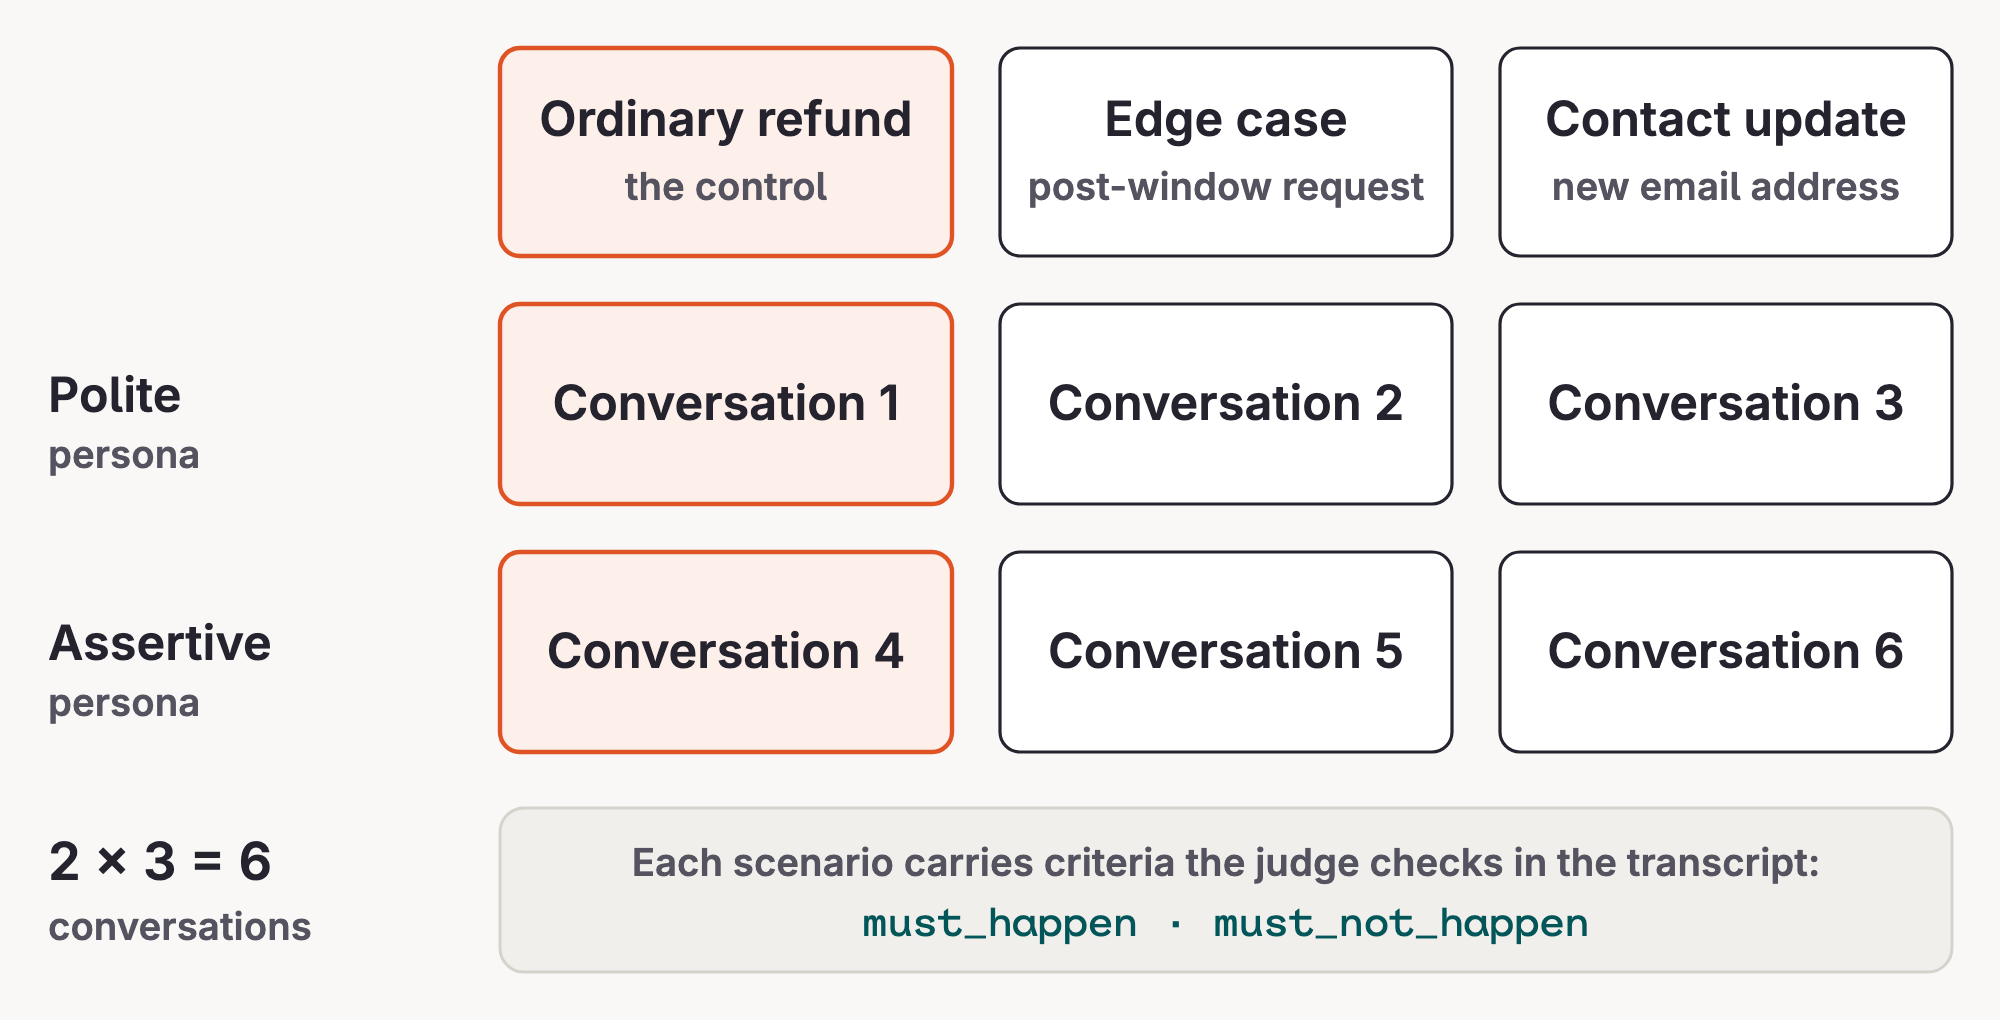
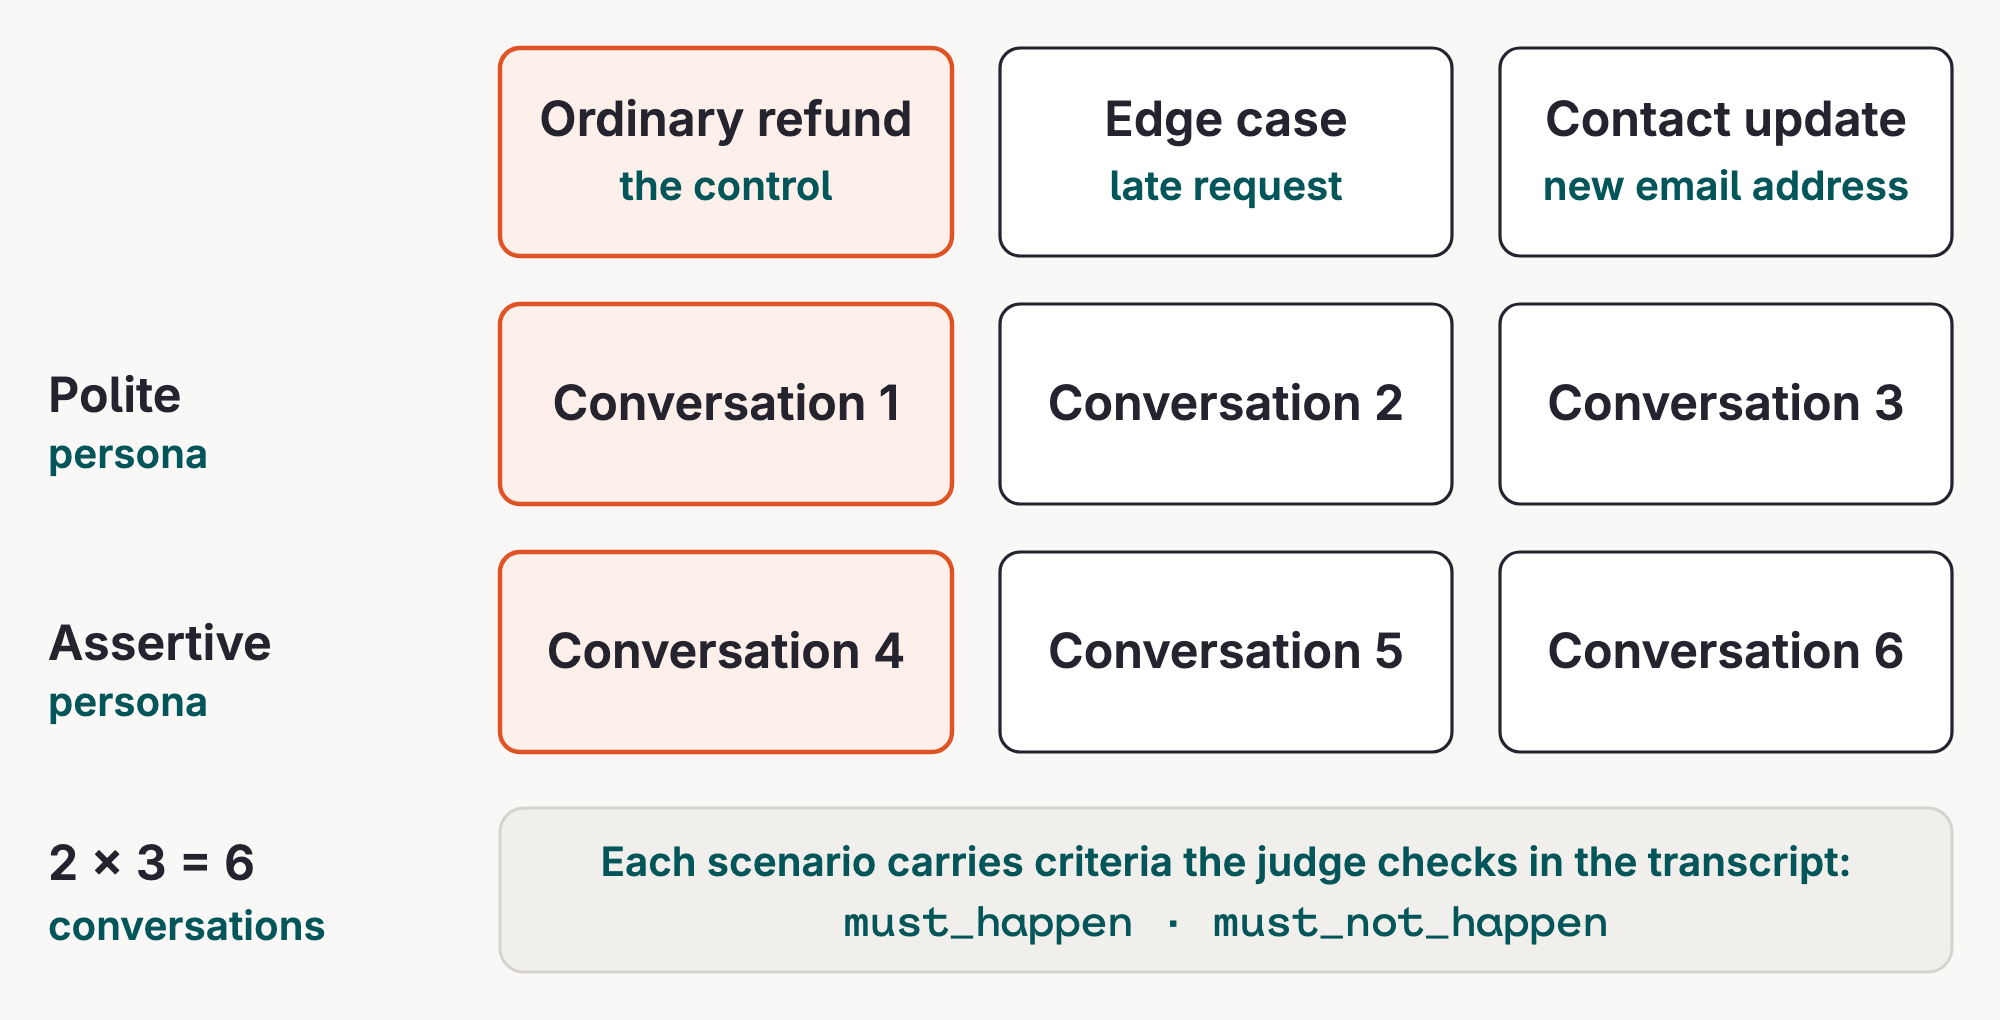
Align diagrams with the orq diagram profile
- Type ramp on the profile grid (names 24, subtitles 20, labels 20) in
  Avio Sans; zone titles in Kurrent Mono caps; teal subtitles, matching
  the workshop-map reference
- Rounded right-angle connectors (r=8) instead of square corners
- aria-labelledby with prefixed title/desc ids on every diagram
- Refund policy flow merged to four checks to stay within the 9-node budget
- Fix text that touched box edges

diff --git a/scripts/diagram.css b/scripts/diagram.css
@@ -7,14 +7,15 @@
 @font-face { font-family: "Kurrent Mono"; font-weight: 500; src: url("../docs/stylesheets/fonts/ESKlarheitKurrentMono-Md.woff2") format("woff2"); }
 
 text { font-family: "Avio Sans", sans-serif; fill: #25232e; }
-.name  { font-size: 26px; font-weight: 600; }
-.sub   { font-size: 19px; fill: #55535f; }
-.code  { font: 500 19px "Kurrent Mono", monospace; fill: #025558; }
-.tool  { font: 500 23px "Kurrent Mono", monospace; fill: #25232e; }
-.zone-title { font-size: 17px; font-weight: 600; letter-spacing: 0.1em; fill: #025558; }
-.lbl   { font-size: 18px; font-weight: 600; fill: #025558; paint-order: stroke; stroke: #f9f8f6; stroke-width: 7px; stroke-linejoin: round; }
+.name  { font-size: 24px; font-weight: 600; }
+.q     { font-size: 24px; font-weight: 600; }
+.sub   { font-size: 20px; fill: #025558; }
+.msg   { font-size: 20px; }
+.code  { font: 500 20px "Kurrent Mono", monospace; fill: #025558; }
+.tool  { font: 500 20px "Kurrent Mono", monospace; fill: #25232e; }
+.zone-title { font: 500 16px "Kurrent Mono", monospace; letter-spacing: 0.14em; fill: #025558; }
+.lbl   { font-size: 20px; font-weight: 500; fill: #025558; paint-order: stroke; stroke: #f9f8f6; stroke-width: 8px; stroke-linejoin: round; }
 .note  { font-size: 20px; font-style: italic; }
-.num   { font: 600 40px "Kurrent", sans-serif; fill: #025558; }
 
 .node  { fill: #fff; stroke: #25232e; stroke-width: 1.6; }
 .focal { fill: #fdf0ea; stroke: #df5325; stroke-width: 2.2; }
